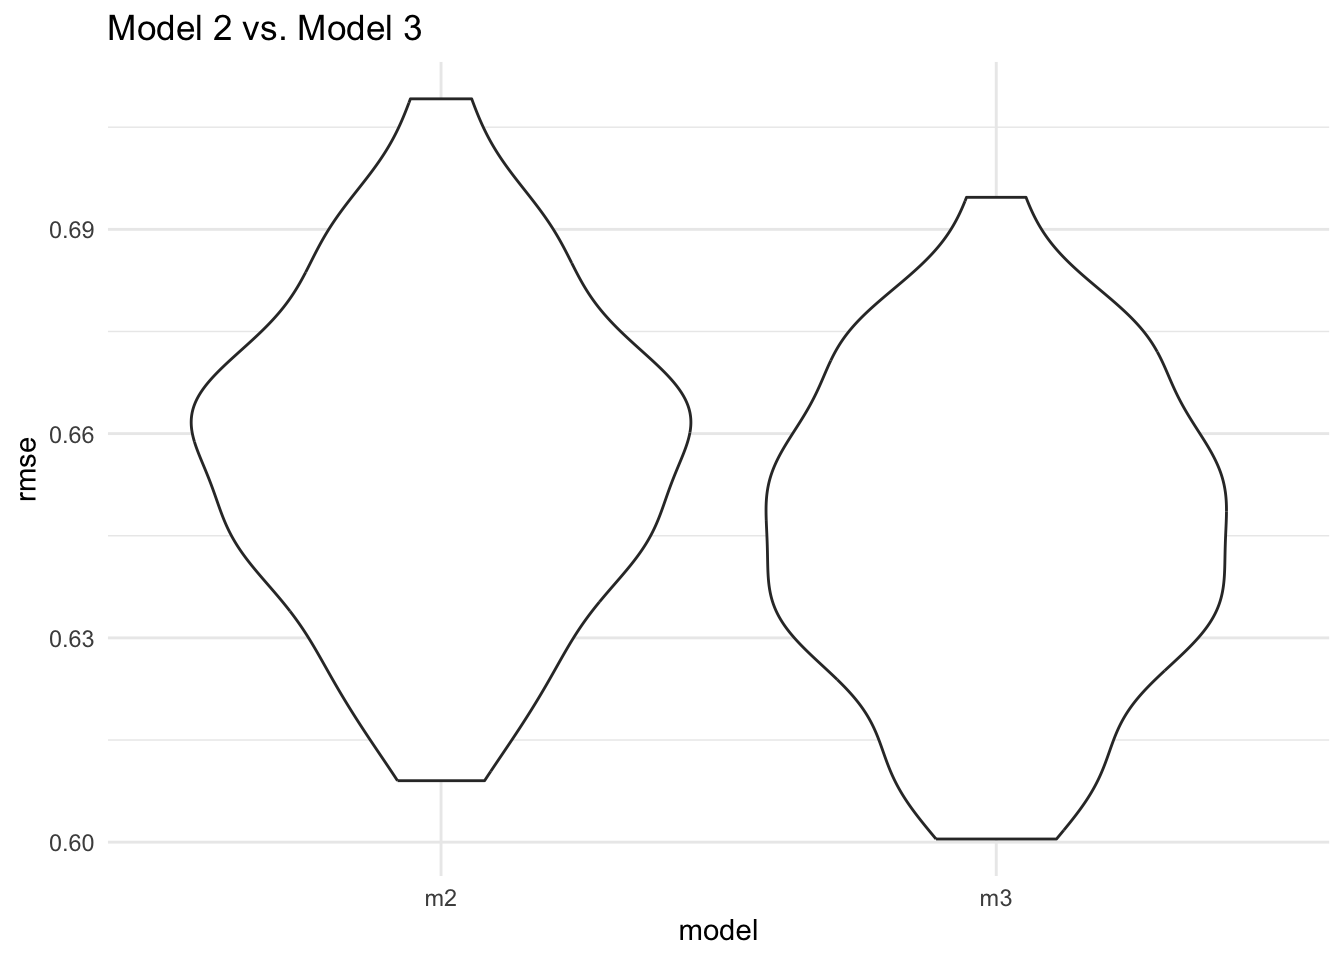
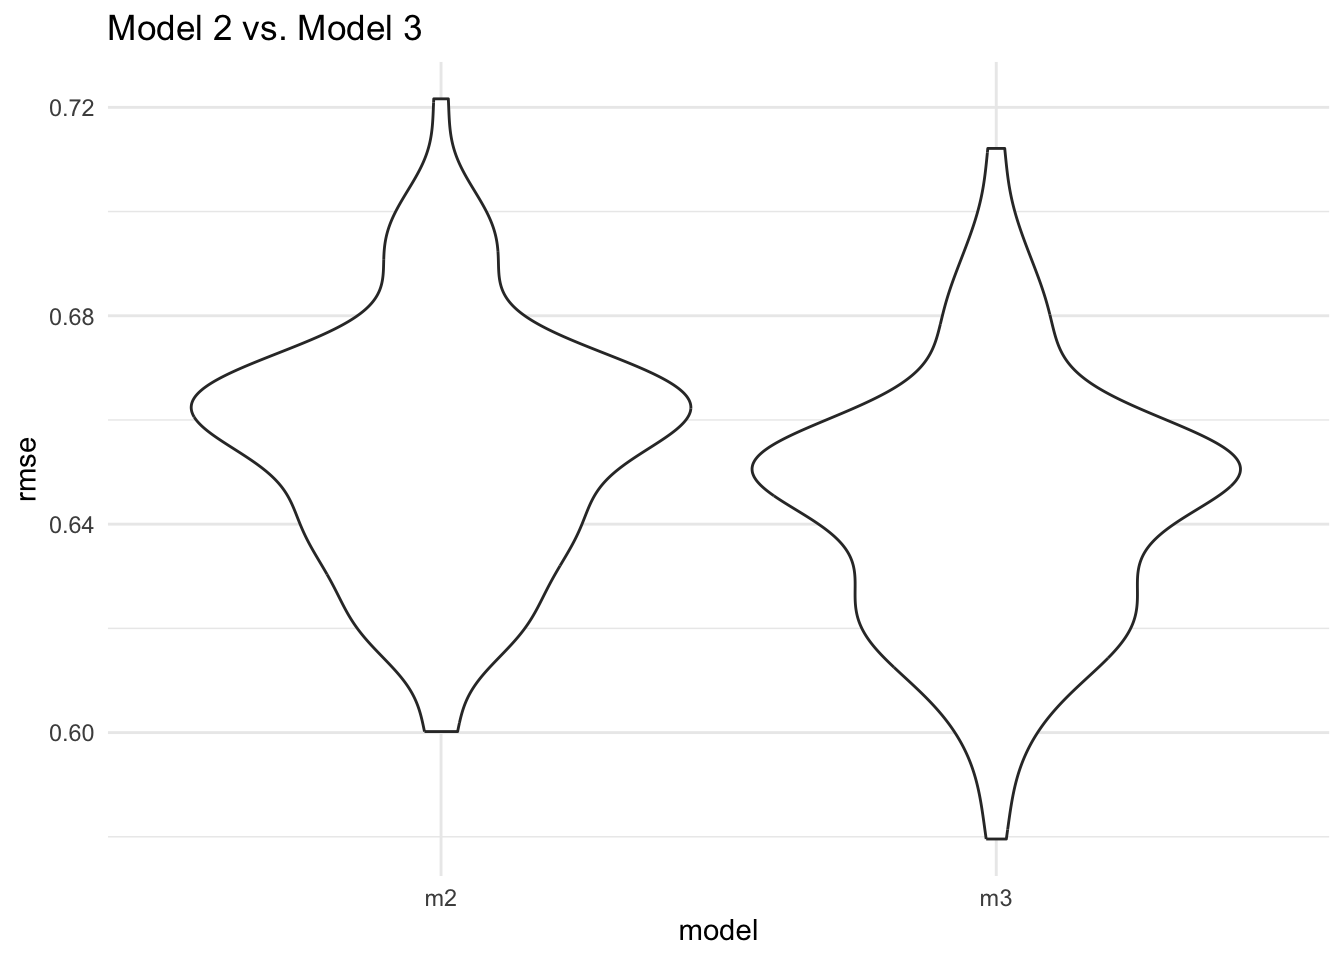
regression results description

diff --git a/statistical_analysis.html b/statistical_analysis.html
@@ -13,7 +13,7 @@
 
 <title>Statistical Analysis</title>
 
-<script src="site_libs/header-attrs-2.28/header-attrs.js"></script>
+<script src="site_libs/header-attrs-2.29/header-attrs.js"></script>
 <script src="site_libs/jquery-3.6.0/jquery-3.6.0.min.js"></script>
 <meta name="viewport" content="width=device-width, initial-scale=1" />
 <link href="site_libs/bootstrap-3.3.5/css/yeti.min.css" rel="stylesheet" />
@@ -344,7 +344,7 @@ div.tocify {
   <a href="statistical_analysis.html">Statistical Analysis</a>
 </li>
 <li>
-  <a href="https://sz3214.shinyapps.io/redlining/">Shiny App</a>
+  <a href="https://sz3214.shinyapps.io/shiny_dashboard_template/">Shiny App</a>
 </li>
 <li>
   <a href="report.html">Project Report</a>
@@ -826,6 +826,8 @@ in the average prevalence is statistically signficant.</p>
 <div id="regression-analysis-for-redlining-and-food-insecurity"
 class="section level2">
 <h2>Regression Analysis for Redlining and Food Insecurity</h2>
+<div id="univariate-modelling" class="section level3">
+<h3>Univariate Modelling</h3>
 <p>Based on the results for the baseline characteristics analysis, we
 computed a linear regression model to explore the association between
 redlining grades and precentage of households enrolled in SNAP.</p>
@@ -878,6 +880,9 @@ lm(ph_snap~red_grade,final_analysis)|&gt;
 enrolled in SNAP was 17.97%, 12.90% and 11.53% higher respectively in
 the D-grade, C-grade and B-grade census tracts compared to A-grade
 census tracts (all p-value &lt;0.001).</p>
+</div>
+<div id="multivarite-modelling" class="section level3">
+<h3>Multivarite Modelling</h3>
 <pre class="r"><code>## multivariate model 1
 red_snap_m1 = lm(ph_snap~red_grade+minority+ph_elderly+ph_disability+ph_no_work,final_analysis)
 tidy_model = broom::tidy(red_snap_m1)
@@ -960,6 +965,18 @@ tidy_model|&gt;
 </tr>
 </tbody>
 </table>
+<p>When the association between redlining grades and SNAP enrollment
+evaluated using a linear regression model, D-grade census tracts had a
+4.04% higher SNAP enrollment compared to A-grade census tracts (p =
+0.037), indicating a statistically significant relationship. However,
+for B-grade and C-grade tracts, the differences were not statistically
+significant (p = 0.087 and p = 0.283 respectively). Among the
+covariates, a 1% increase in minority population was associated with a
+0.16% increase in SNAP enrollment (p &lt; 0.001). Additionally, the
+percentage of households with elderly members was negatively associated
+with SNAP enrollment (-0.33%, p &lt; 0.001), while households with
+disabilities (+0.75%, p &lt; 0.001) and those with no workers (+0.32%, p
+&lt; 0.001) showed significant positive associations.</p>
 <pre class="r"><code>## histogram for snap enrollment
 ggplot(final_analysis, aes(x = ph_snap)) +
   geom_histogram(binwidth = 5, fill = &quot;skyblue&quot;, color = &quot;black&quot;) +
@@ -970,6 +987,9 @@ ggplot(final_analysis, aes(x = ph_snap)) +
   ) +
   theme_minimal()</code></pre>
 <p><img src="statistical_analysis_files/figure-html/unnamed-chunk-8-1.png" width="672" /></p>
+<p>The histogram shows that SNAP enrollment is right-skewed, with the
+majority of census tracts having lower percentages of households
+enrolled. Therefore, transformations were applied.</p>
 <pre class="r"><code>## multivariate model 2
 red_snap_m2 =
   final_analysis|&gt;
@@ -1075,6 +1095,16 @@ Confidence Intervals</caption>
 </tr>
 </tbody>
 </table>
+<p>We applied a log transformation to SNAP enrollment to better address
+skewness in the data, with results interpreted as multiplicative
+changes. Compared to A-grade tracts, D-grade tracts exhibited 1.82 times
+higher SNAP enrollment (p &lt; 0.001). Similarly, B-grade and C-grade
+tracts showed increases of 1.78 times (p &lt; 0.001) and 1.75 times (p
+&lt; 0.001), respectively. Covariates such as minority population and
+households with disabilities remained significant. A 1% increase in
+minority population was associated with a 1.2% increase in SNAP
+enrollment (p &lt; 0.001), while households with elderly members were
+associated with a 1.4% decrease in SNAP enrollment (p &lt; 0.001).</p>
 <pre class="r"><code>##multivariate model 3
 red_snap_m3 = lm(log(ph_snap+1)~red_grade+ph_white+ph_black+ph_asian+ph_elderly+ph_disability+ph_no_work,final_analysis)
 
@@ -1194,11 +1224,29 @@ Confidence Intervals</caption>
 </tr>
 </tbody>
 </table>
+<p>Then we included specific ethnic proportions (White, Black, and
+Asian) as covariates, refining the analysis. In this model, D-grade
+tracts had 1.94 times higher SNAP enrollment compared to A-grade tracts
+(p &lt; 0.001). B-grade and C-grade tracts had increases of 1.85 times
+(p &lt; 0.001) and 1.80 times (p &lt; 0.001), respectively. Among ethnic
+covariates, a higher proportion of White households was associated with
+slightly lower SNAP enrollment, with a 1% increase in White population
+reducing enrollment by 1.9% (p &lt; 0.001). Similarly, higher
+proportions of Black and Asian households also exhibited small negative
+associations. As in previous models, households with disabilities
+(+3.2%, p &lt; 0.001) and no workers (+0.9%, p &lt; 0.001) remained
+significant predictors of higher SNAP enrollment.</p>
+</div>
 <div id="cross-validation-and-model-selection" class="section level3">
 <h3>Cross Validation and Model Selection</h3>
+<p>To assess the predictive performance of the three multivarite models,
+Monte Carlo cross-validation was conducted, calculating the Root Mean
+Square Error (RMSE) for each model across multiple training and testing
+splits.</p>
 <pre class="r"><code>cv_df =
-  crossv_mc(final_analysis, 100)</code></pre>
-<pre class="r"><code>cv_df =
+  crossv_mc(final_analysis, 100)
+
+cv_df =
 cv_df|&gt;
   mutate(model_1 = map(train, \(df)  
                        lm(ph_snap~red_grade+minority+ph_elderly+ph_disability+ph_no_work,
@@ -1214,8 +1262,9 @@ cv_df|&gt;
     rmse_m1 = map2_dbl(model_1, test, \(mod, df) rmse(model = mod, data = df)),
     rmse_m2 = map2_dbl(model_2, test, \(mod, df) rmse(model = mod, data = df)),
     rmse_m3 = map2_dbl(model_3, test, \(mod, df) rmse(model = mod, data = df))
-  )</code></pre>
-<pre class="r"><code>cv_df |&gt; 
+  )
+
+cv_df |&gt; 
   select(starts_with(&quot;rmse&quot;)) |&gt; 
   pivot_longer(
     everything(),
@@ -1226,7 +1275,16 @@ cv_df|&gt;
   ggplot(aes(x = model, y = rmse)) + geom_violin()+
   labs(title = &quot;Model 1 vs. Model 2 &amp; 3&quot;)+
   theme_minimal()</code></pre>
-<p><img src="statistical_analysis_files/figure-html/unnamed-chunk-12-1.png" width="672" /></p>
+<p><img src="statistical_analysis_files/figure-html/unnamed-chunk-11-1.png" width="672" /></p>
+<p>Model 1, which used a simple linear approach without log
+transformation, demonstrated the highest RMSE values, averaging over 10
+units. This poor performance indicates that the linearity assumption of
+Model 1 poorly captures the variability in SNAP enrollment.</p>
+<p>Conversely, Model 2 and Model 3, both of which log-transformed SNAP
+enrollment to account for its right-skewed distribution, exhibited
+significantly lower RMSE values. This suggests that these models
+provided a much better fit to the data and were more reliable in
+predicting SNAP enrollment.</p>
 <pre class="r"><code>cv_df |&gt; 
   select(starts_with(&quot;rmse&quot;)) |&gt; 
   pivot_longer(
@@ -1239,10 +1297,18 @@ cv_df|&gt;
   ggplot(aes(x = model, y = rmse)) + geom_violin()+
   labs(title = &quot;Model 2 vs. Model 3&quot;)+
   theme_minimal()</code></pre>
-<p><img src="statistical_analysis_files/figure-html/unnamed-chunk-12-2.png" width="672" /></p>
-<p>Based on the rootmean square models, model 2 and 3 perform
-signficantly better than model 1, while model 3 performs slightly better
-than model 3.</p>
+<p><img src="statistical_analysis_files/figure-html/unnamed-chunk-12-1.png" width="672" /></p>
+<p>Focusing on the violin plot comparing Model 2 and Model 3, the RMSE
+values for both models are clustered closely together, with Model 3
+showing slightly lower RMSE on average. Model 3, which incorporates
+detailed racial and ethnic composition variables, performed marginally
+better than Model 2, which used a simplified “minority” variable to
+summarize racial and ethnic factors. This improvement indicates that
+accounting for specific racial variations enhances the model’s ability
+to explain and predict SNAP enrollment.</p>
+<p>Therefore, model 3 provides the most robust framework for
+understanding the relationship between redlining, demographic factors,
+and food insecurity.</p>
 </div>
 </div>
 <div id="association-of-health-outcomes-and-redlining"
